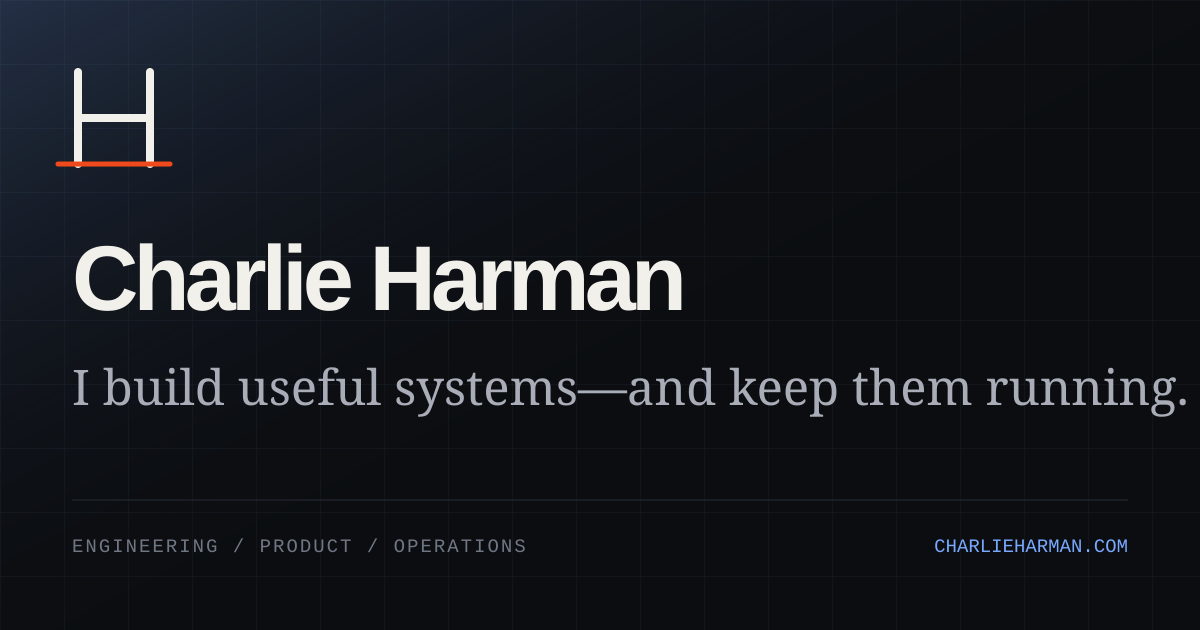
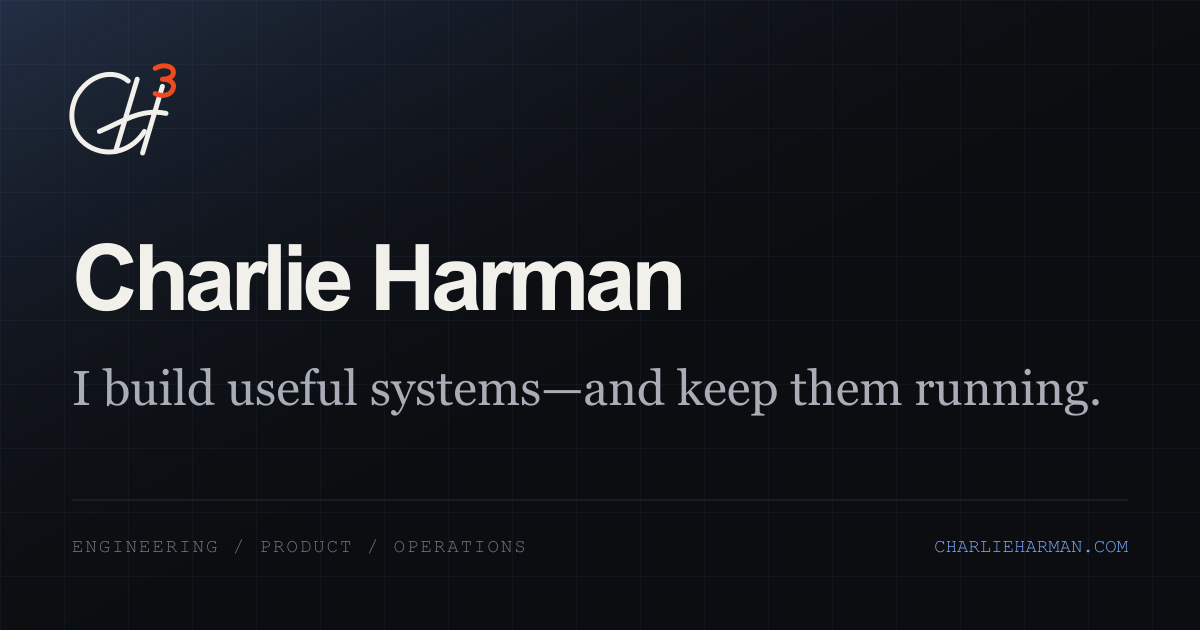
Rebrand to hand-drawn CH3 mark with curiosity-themed copy
- New CH3 logo across favicon, header LogoMark, OG images, and a
  standalone public/logo-ch3.svg
- Add 180x180 apple-touch-icon.png (same mark, full-bleed dark square)
  linked from BaseLayout so iOS home-screen saves use the logo;
  audit now asserts it exists
- Homepage and about copy reworked around curiosity -> questions ->
  systems; accent-blue serif italics for emphasized words in headings
- Header initials become CH^3 on narrow viewports

Claude-Session: https://claude.ai/code/session_016sFydNrFHN6RWR5hGT2Qnx

diff --git a/src/styles/global.css b/src/styles/global.css
@@ -127,6 +127,14 @@ h3 {
   display: none;
 }
 
+.brand__initials sup {
+  color: var(--accent-orange);
+  font-size: 0.62em;
+  margin-left: 0.06em;
+  position: relative;
+  top: -0.26em;
+}
+
 .site-header nav ul {
   align-items: center;
   display: flex;
